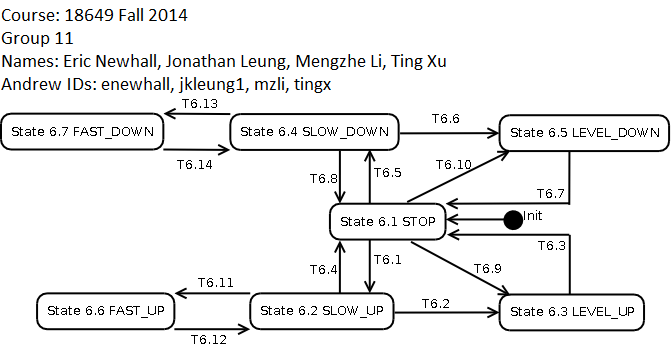
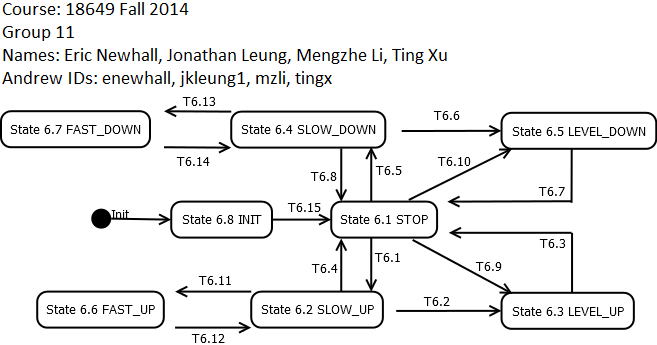
Updated DriveControl statchart and sd3b

Changed region(s): [[0.0, 0.0, 1.0, 1.0], [0.6393, 0.3188, 0.7002, 0.3478]]

diff --git a/portfolio/reqs/requirements2.html b/portfolio/reqs/requirements2.html
@@ -1558,6 +1558,7 @@ a mnemonic value of None. </li>
 car's acceleration profile, current speed, and distance from the floor
 f, to determine whether or not the car can still stop at the next
 floor. </li>
+  <li>Countdown, counter used to give the whole system time to init before moving. </li>
 </ul>
 <h3> CONSTRAINTS: </h3>
 6.1&nbsp;&nbsp;&nbsp; Drive shall have been commanded to Stop whenever
@@ -1756,7 +1757,7 @@ Down<br>
 6.13&nbsp;&nbsp;mDrive shall be set to Drive.<br>
 
 <br>
-<p> <img style="width: 672; height: 348px;" alt="DriveControl Statechart" src="DriveControl_state_diagram.png"><br clear="left"> </p>
+<p> <img style="width: 657; height: 345px;" alt="DriveControl Statechart" src="DriveControl_state_diagram.png"><br clear="left"> </p>
 <table style="text-align: left; width: 525px; height: 172px;" border="1" cellpadding="2" cellspacing="2">
   <tbody>
     <tr>
@@ -1819,6 +1820,10 @@ Down<br>
     <tr>
       <td style="vertical-align: top;">T6.14</td>
       <td style="vertical-align: top;">mEmergencyBrake == true || CommitPoint[f] == Reached || DesiredDirection == Up</td>
+    </tr>
+    <tr>
+      <td style="vertical-align: top;">T6.15</td>
+      <td style="vertical-align: top;">countdown &lt; 0</td>
     </tr>
   </tbody>
 </table>
@@ -1892,6 +1897,15 @@ Down<br>
       <td style="vertical-align: top;">Car is going fast, down</td>
       <td style="vertical-align: top;">
         Drive = {Fast, Down} <br>
+        mDrive = Drive <br>
+        mDriveSpeed = DriveSpeed <br>
+      </td>
+    </tr>
+    <tr>
+      <td style="vertical-align: top;">S6.8 INIT<br> </td>
+      <td style="vertical-align: top;">Car is waiting for all controls to init</td>
+      <td style="vertical-align: top;">
+        Drive = {Stop, Stop} <br>
         mDrive = Drive <br>
         mDriveSpeed = DriveSpeed <br>
       </td>

diff --git a/portfolio/scen_sd/scen_sd.html b/portfolio/scen_sd/scen_sd.html
@@ -303,6 +303,7 @@ passenger is waiting. </li>
   <li>The Passenger enters</li>  
   <li>Doors close</li>
   <li>Car weight exceeds maximum capacity</li>
+  <li>Doors are not closed</li>
   <li>Doors begin to open</li>
 </ol>	
 <h3> Post-Conditions: </h3>
@@ -315,10 +316,8 @@ passenger is waiting. </li>
 
 
 <h3> Sequence Diagram: </h3>
-<p> <a href="header.png"><img src="header.png" alt="header"
- style="width: 451; height: 94;"></a> </p>
 <p> <a href="sd3b.png"><img src="sd3b.png" alt="3B"
- style="border: 0px solid ; width: 751; height: 349;"></a> </p>
+ style="border: 0px solid ; width: 862; height: 413;"></a> </p>
 <div align="center">
 <hr size="2" width="100%" align="center"> </div>
 <p> &nbsp; </p>

diff --git a/portfolio/elevatorcontrol/DriveControl.java b/portfolio/elevatorcontrol/DriveControl.java
@@ -198,10 +198,11 @@ public class DriveControl extends Controller implements TimeSensitive {
 	         doInit();
                 countdown = countdown - period.getFracSeconds();
                 if(countdown<0){
-		     countdown = -1;
-                  }
-	         if(countdown<0){
-                   nextState = State.STOP;
+                    countdown = -1;
+                }
+	            if(countdown<0){
+                    log("T6.15");
+                    nextState = State.STOP;
                 }
 	         break;
             case STOP:
